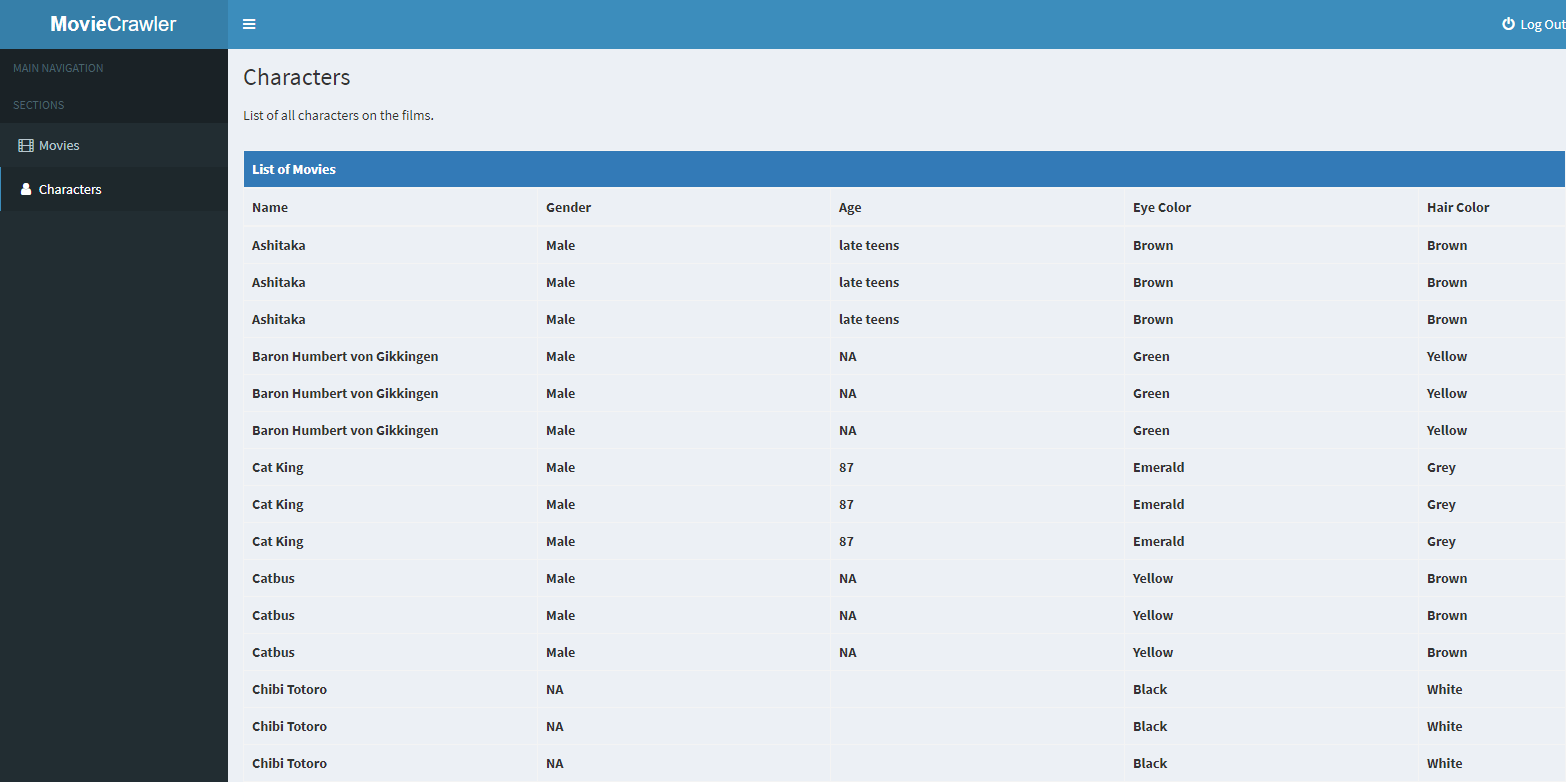
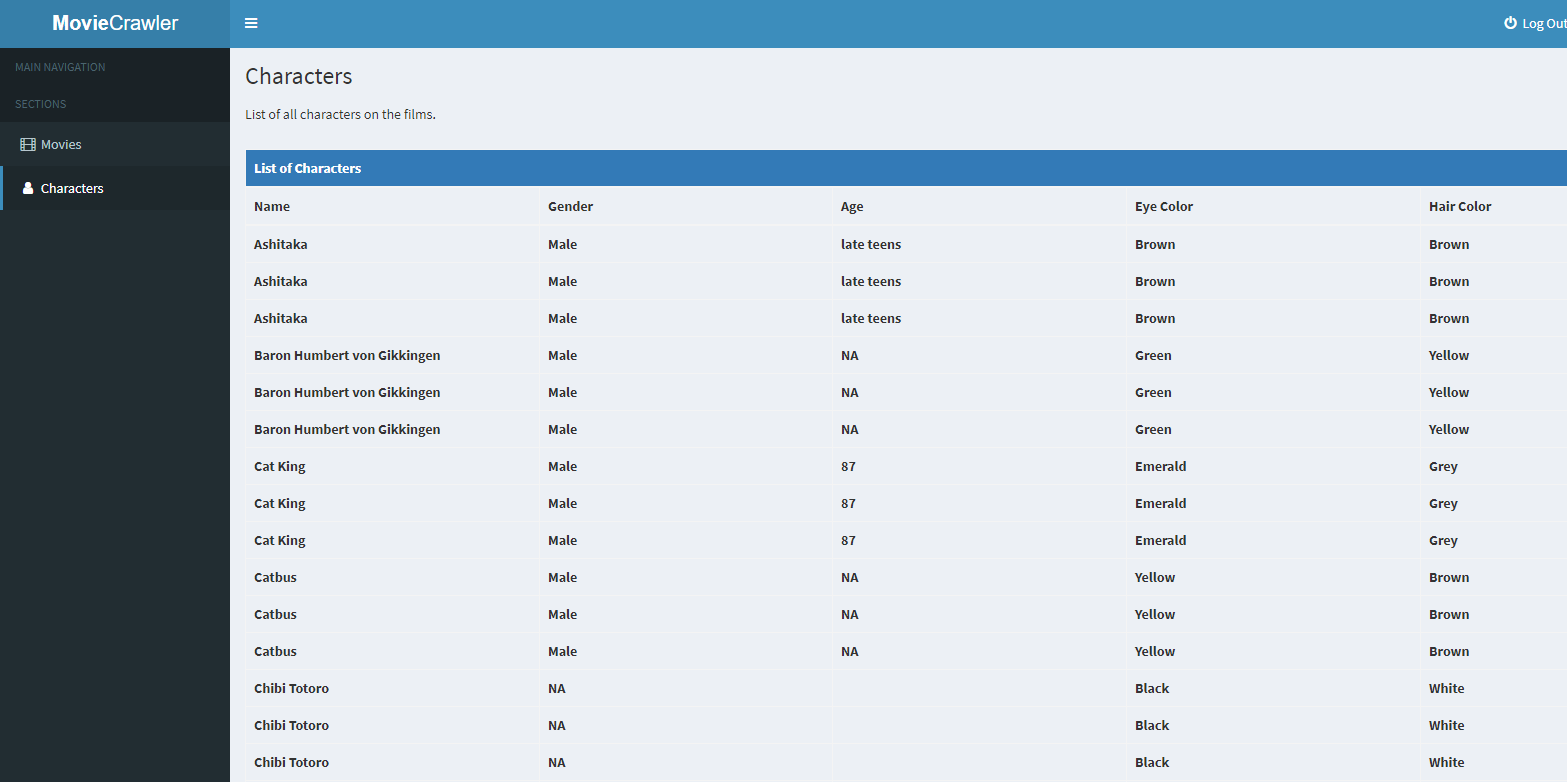
Atualização do readme + modificações

diff --git a/resources/views/home.blade.php b/resources/views/home.blade.php
@@ -3,11 +3,11 @@
 @section('title', 'Movie Crawler')
 
 @section('content_header')
-    <h1>Dashboard</h1>
+    <h1>Studio Ghibli API</h1>
 @stop
 
 @section('content')
-    <p>Welcome to the Movie Crawler.</p>
+    <p>The Studio Ghibli API catalogs the people, places, and things found in the worlds of Ghibli. It was created to help users discover resources, consume them via HTTP requests, and interact with them in whatever way makes sense. Navigation can be found on the left sidebar, and the right sidebar shows examples of returned objects for successful calls.</p>
     
 @stop
 

diff --git a/resources/views/characters.blade.php b/resources/views/characters.blade.php
@@ -15,7 +15,7 @@
                     <table class="table table-bordered">
                         <thead>
                             <tr class="bg-primary">
-                                <th colspan="16">List of Movies</th>
+                                <th colspan="16">List of Characters</th>
                             </tr>
                             <tr>
                                 <th class="col-md-2">Name</th>

diff --git a/app/Character.php b/app/Character.php
@@ -8,6 +8,7 @@ class Character extends Model
 {
     protected $table = 'characters';
 
+    /** Permission to write on database. */
     protected $fillable = [
         'character_id', 'name', 'gender', 'age', 'eye_color', 'hair_color'
     ];
@@ -16,4 +17,6 @@ class Character extends Model
     public $rules = [
         'character_id' => 'unique:characters',
     ];
+
+    public $timestamps = false;
 }

diff --git a/app/Movie.php b/app/Movie.php
@@ -8,6 +8,7 @@ class Movie extends Model
 {
     protected $table = 'movies';
 
+    /** Permission to write on database. */
     protected $fillable = [
         'movie_id', 'title', 'description', 'director', 'producer', 'year', 'rt_score'
     ];

diff --git a/readme.md b/readme.md
@@ -20,7 +20,9 @@ Desenvolvimento um web crawler a partir da API do Studio Ghibli com objetivo de 
 O sistema atual lista todos os filmes (Nome, descrição, diretor, produtor, ano e score do Rotten Tomatoes) e personagens (Nome, gênero, idade, cor dos olhos, cor dos cabelos).
 
 - Página de filmes
+api-crawl/public/movies
 <img src="movie-page.png">
 
 - Página de pessoas
+api-crawl/public/characters
 <img src="character-page.png">
